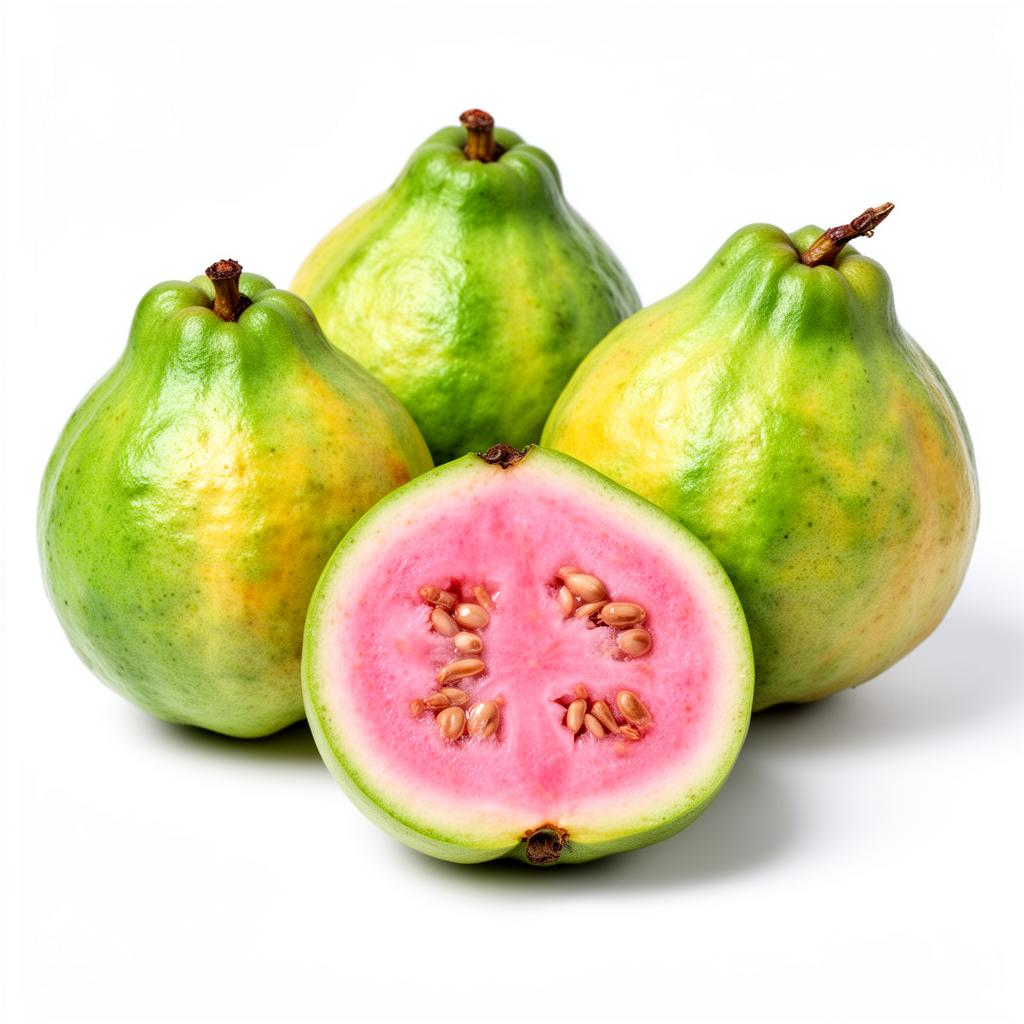
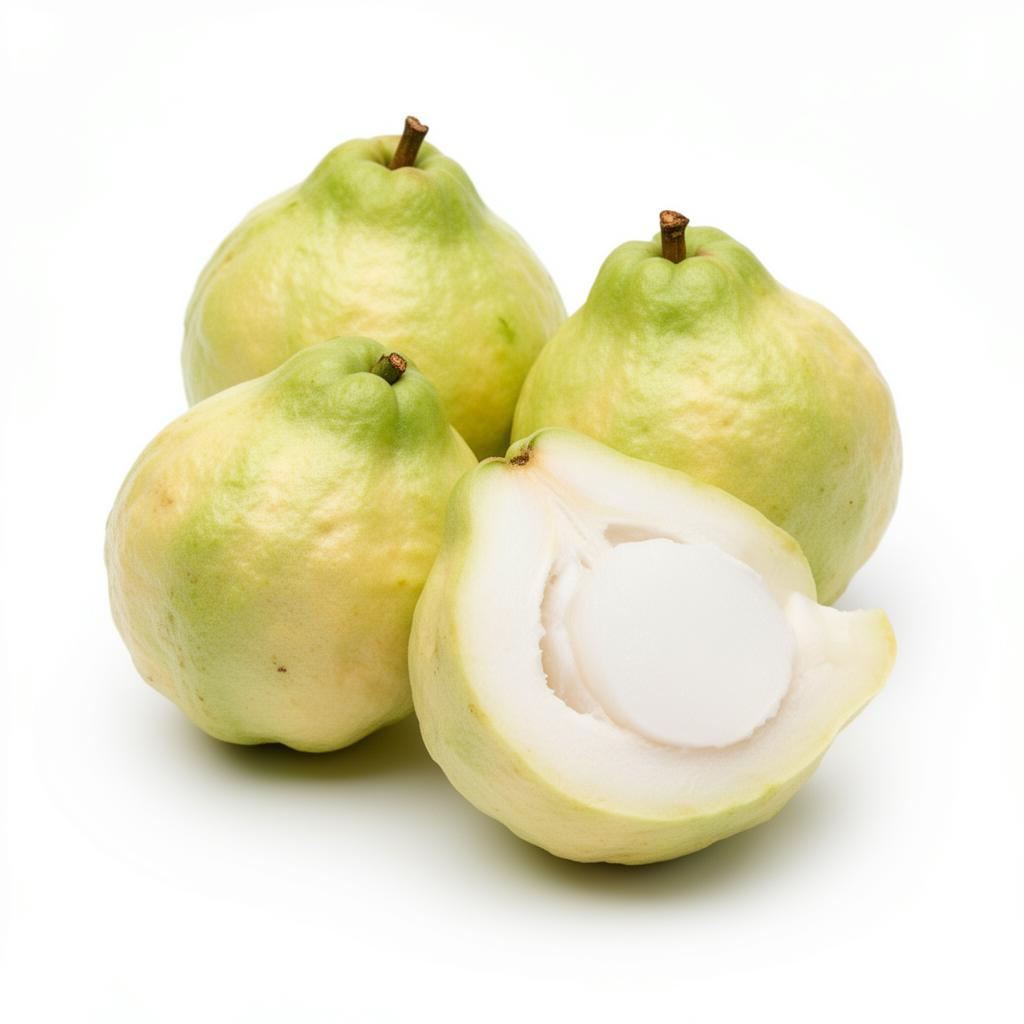
Changes

diff --git a/src/i18n/translations.ts b/src/i18n/translations.ts
@@ -83,7 +83,17 @@ export const translations: Record<Language, Record<string, string>> = {
     'product.mango': 'مانجو',
     'product.mango.desc': 'مانجو مصرية بنكهة استوائية فريدة',
     'product.guava': 'جوافة',
-    'product.guava.desc': 'جوافة طازجة غنية بفيتامين سي',
+    'product.guava.desc': 'جوافة بيضاء طازجة غنية بفيتامين سي',
+    'product.fig': 'تين',
+    'product.fig.desc': 'تين مصري طازج بنكهة حلوة طبيعية وجودة فاخرة',
+    'product.peach': 'خوخ',
+    'product.peach.desc': 'خوخ مصري طازج بلون مشرق ومذاق رائع',
+    'product.watermelon': 'بطيخ',
+    'product.watermelon.desc': 'بطيخ مصري حلو المذاق بلحم أحمر غني',
+    'product.lemon': 'ليمون',
+    'product.lemon.desc': 'ليمون مصري طازج بعصارة غنية وحموضة مثالية',
+    'product.cantaloupe': 'كنتالوب',
+    'product.cantaloupe.desc': 'كنتالوب مصري حلو بلحم برتقالي غني',
     'product.tomato': 'طماطم',
     'product.tomato.desc': 'طماطم طازجة بجودة تصديرية عالية',
     'product.pepper': 'فلفل',
@@ -288,7 +298,17 @@ export const translations: Record<Language, Record<string, string>> = {
     'product.mango': 'Mangoes',
     'product.mango.desc': 'Egyptian mangoes with unique tropical flavor',
     'product.guava': 'Guava',
-    'product.guava.desc': 'Fresh guava rich in Vitamin C',
+    'product.guava.desc': 'Fresh white guava rich in Vitamin C',
+    'product.fig': 'Figs',
+    'product.fig.desc': 'Fresh Egyptian figs with natural sweet flavor and premium quality',
+    'product.peach': 'Peaches',
+    'product.peach.desc': 'Fresh Egyptian peaches with bright color and wonderful taste',
+    'product.watermelon': 'Watermelon',
+    'product.watermelon.desc': 'Sweet Egyptian watermelon with rich red flesh',
+    'product.lemon': 'Lemons',
+    'product.lemon.desc': 'Fresh Egyptian lemons with rich juice and perfect acidity',
+    'product.cantaloupe': 'Cantaloupe',
+    'product.cantaloupe.desc': 'Sweet Egyptian cantaloupe with rich orange flesh',
     'product.tomato': 'Tomatoes',
     'product.tomato.desc': 'Fresh tomatoes of high export quality',
     'product.pepper': 'Peppers',
@@ -486,7 +506,17 @@ export const translations: Record<Language, Record<string, string>> = {
     'product.mango': 'Mangues',
     'product.mango.desc': 'Mangues égyptiennes au goût tropical',
     'product.guava': 'Goyaves',
-    'product.guava.desc': 'Goyaves fraîches riches en vitamine C',
+    'product.guava.desc': 'Goyaves blanches fraîches riches en vitamine C',
+    'product.fig': 'Figues',
+    'product.fig.desc': 'Figues égyptiennes fraîches au goût naturellement sucré',
+    'product.peach': 'Pêches',
+    'product.peach.desc': 'Pêches égyptiennes fraîches de couleur vive',
+    'product.watermelon': 'Pastèque',
+    'product.watermelon.desc': 'Pastèque égyptienne sucrée à chair rouge',
+    'product.lemon': 'Citrons',
+    'product.lemon.desc': 'Citrons égyptiens frais au jus riche',
+    'product.cantaloupe': 'Cantaloup',
+    'product.cantaloupe.desc': 'Cantaloup égyptien sucré à chair orange',
     'product.tomato': 'Tomates',
     'product.tomato.desc': 'Tomates fraîches de haute qualité',
     'product.pepper': 'Poivrons',
@@ -684,7 +714,17 @@ export const translations: Record<Language, Record<string, string>> = {
     'product.mango': 'Mangos',
     'product.mango.desc': 'Ägyptische Mangos mit tropischem Geschmack',
     'product.guava': 'Guaven',
-    'product.guava.desc': 'Frische Guaven reich an Vitamin C',
+    'product.guava.desc': 'Frische weiße Guaven reich an Vitamin C',
+    'product.fig': 'Feigen',
+    'product.fig.desc': 'Frische ägyptische Feigen mit natürlich süßem Geschmack',
+    'product.peach': 'Pfirsiche',
+    'product.peach.desc': 'Frische ägyptische Pfirsiche mit leuchtender Farbe',
+    'product.watermelon': 'Wassermelone',
+    'product.watermelon.desc': 'Süße ägyptische Wassermelone mit rotem Fruchtfleisch',
+    'product.lemon': 'Zitronen',
+    'product.lemon.desc': 'Frische ägyptische Zitronen mit reichem Saft',
+    'product.cantaloupe': 'Cantaloupe-Melone',
+    'product.cantaloupe.desc': 'Süße ägyptische Cantaloupe mit orangem Fruchtfleisch',
     'product.tomato': 'Tomaten',
     'product.tomato.desc': 'Frische Tomaten hoher Exportqualität',
     'product.pepper': 'Paprika',

diff --git a/src/data/productDetails.ts b/src/data/productDetails.ts
@@ -5,6 +5,11 @@ import grapeImg from '@/assets/products/grape.jpg';
 import pomegranateImg from '@/assets/products/pomegranate.jpg';
 import mangoImg from '@/assets/products/mango.jpg';
 import guavaImg from '@/assets/products/guava.jpg';
+import figImg from '@/assets/products/fig.jpg';
+import peachImg from '@/assets/products/peach.jpg';
+import watermelonImg from '@/assets/products/watermelon.jpg';
+import lemonImg from '@/assets/products/lemon.jpg';
+import cantaloupeImg from '@/assets/products/cantaloupe.jpg';
 import tomatoImg from '@/assets/products/tomato.jpg';
 import pepperImg from '@/assets/products/pepper.jpg';
 import onionImg from '@/assets/products/onion.jpg';
@@ -112,6 +117,61 @@ export const productDetails: Record<string, ProductDetail> = {
     packaging: ['3 kg carton', '5 kg carton'],
     origin: 'Qalyubia, Egypt',
     season: 'September - January',
+    grade: 'Premium Export Grade A',
+  },
+  fig: {
+    id: 'fig', img: figImg, category: 'fruits',
+    certificates: ['GlobalGAP', 'ISO 22000', 'HACCP'],
+    euStandard: 'EU Reg. 543/2011 - Class Extra / Class I',
+    shelfLife: '5-7 days',
+    storage: '0-2°C, 85-90% RH',
+    packaging: ['2 kg tray', '3 kg carton'],
+    origin: 'Assiut, Egypt',
+    season: 'June - September',
+    grade: 'Premium Export Grade A',
+  },
+  peach: {
+    id: 'peach', img: peachImg, category: 'fruits',
+    certificates: ['GlobalGAP', 'ISO 22000', 'HACCP'],
+    euStandard: 'EU Reg. 543/2011 - Class I',
+    shelfLife: '2-4 weeks',
+    storage: '0-1°C, 90-95% RH',
+    packaging: ['5 kg carton', '7 kg carton'],
+    origin: 'Qalyubia, Egypt',
+    season: 'May - August',
+    grade: 'Premium Export Grade A',
+  },
+  watermelon: {
+    id: 'watermelon', img: watermelonImg, category: 'fruits',
+    certificates: ['GlobalGAP', 'ISO 22000', 'HACCP'],
+    euStandard: 'EU Reg. 543/2011 - Class I',
+    shelfLife: '2-3 weeks',
+    storage: '10-15°C, 85-90% RH',
+    packaging: ['Single fruit', 'Bulk bin'],
+    origin: 'Minya, Egypt',
+    season: 'April - August',
+    grade: 'Premium Export Grade A',
+  },
+  lemon: {
+    id: 'lemon', img: lemonImg, category: 'fruits',
+    certificates: ['GlobalGAP', 'ISO 22000', 'HACCP'],
+    euStandard: 'EU Reg. 543/2011 - Class I',
+    shelfLife: '4-8 weeks',
+    storage: '10-13°C, 85-90% RH',
+    packaging: ['5 kg carton', '10 kg carton'],
+    origin: 'Beheira, Egypt',
+    season: 'Year-round',
+    grade: 'Premium Export Grade A',
+  },
+  cantaloupe: {
+    id: 'cantaloupe', img: cantaloupeImg, category: 'fruits',
+    certificates: ['GlobalGAP', 'ISO 22000', 'HACCP'],
+    euStandard: 'EU Reg. 543/2011 - Class I',
+    shelfLife: '2-3 weeks',
+    storage: '2-5°C, 90-95% RH',
+    packaging: ['5 kg carton', '10 kg carton'],
+    origin: 'Ismailia, Egypt',
+    season: 'April - September',
     grade: 'Premium Export Grade A',
   },
   tomato: {

diff --git a/src/pages/Fruits.tsx b/src/pages/Fruits.tsx
@@ -10,6 +10,11 @@ import grapeImg from '@/assets/products/grape.jpg';
 import pomegranateImg from '@/assets/products/pomegranate.jpg';
 import mangoImg from '@/assets/products/mango.jpg';
 import guavaImg from '@/assets/products/guava.jpg';
+import figImg from '@/assets/products/fig.jpg';
+import peachImg from '@/assets/products/peach.jpg';
+import watermelonImg from '@/assets/products/watermelon.jpg';
+import lemonImg from '@/assets/products/lemon.jpg';
+import cantaloupeImg from '@/assets/products/cantaloupe.jpg';
 
 const Fruits = () => {
   const { t, isRtl } = useLanguage();
@@ -21,6 +26,11 @@ const Fruits = () => {
     { name: 'pomegranate', img: pomegranateImg },
     { name: 'mango', img: mangoImg },
     { name: 'guava', img: guavaImg },
+    { name: 'fig', img: figImg },
+    { name: 'peach', img: peachImg },
+    { name: 'watermelon', img: watermelonImg },
+    { name: 'lemon', img: lemonImg },
+    { name: 'cantaloupe', img: cantaloupeImg },
   ];
 
   return (
